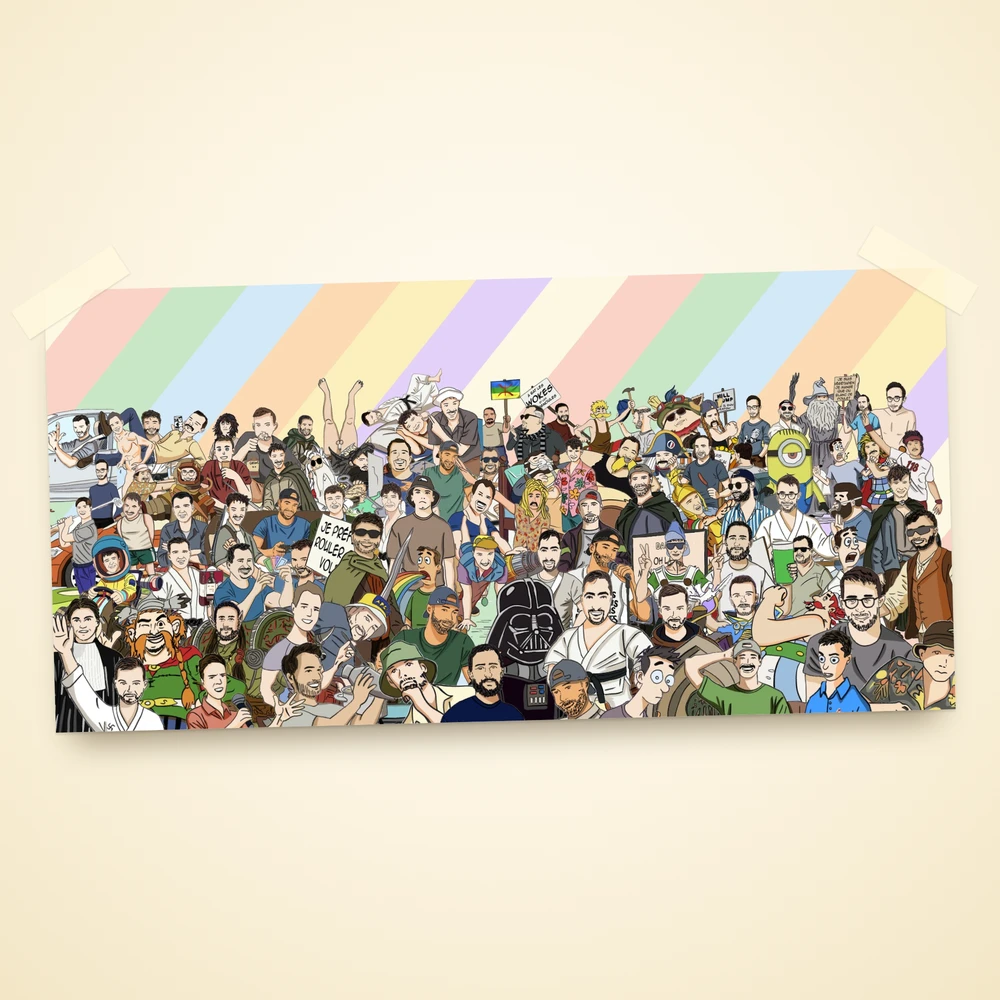
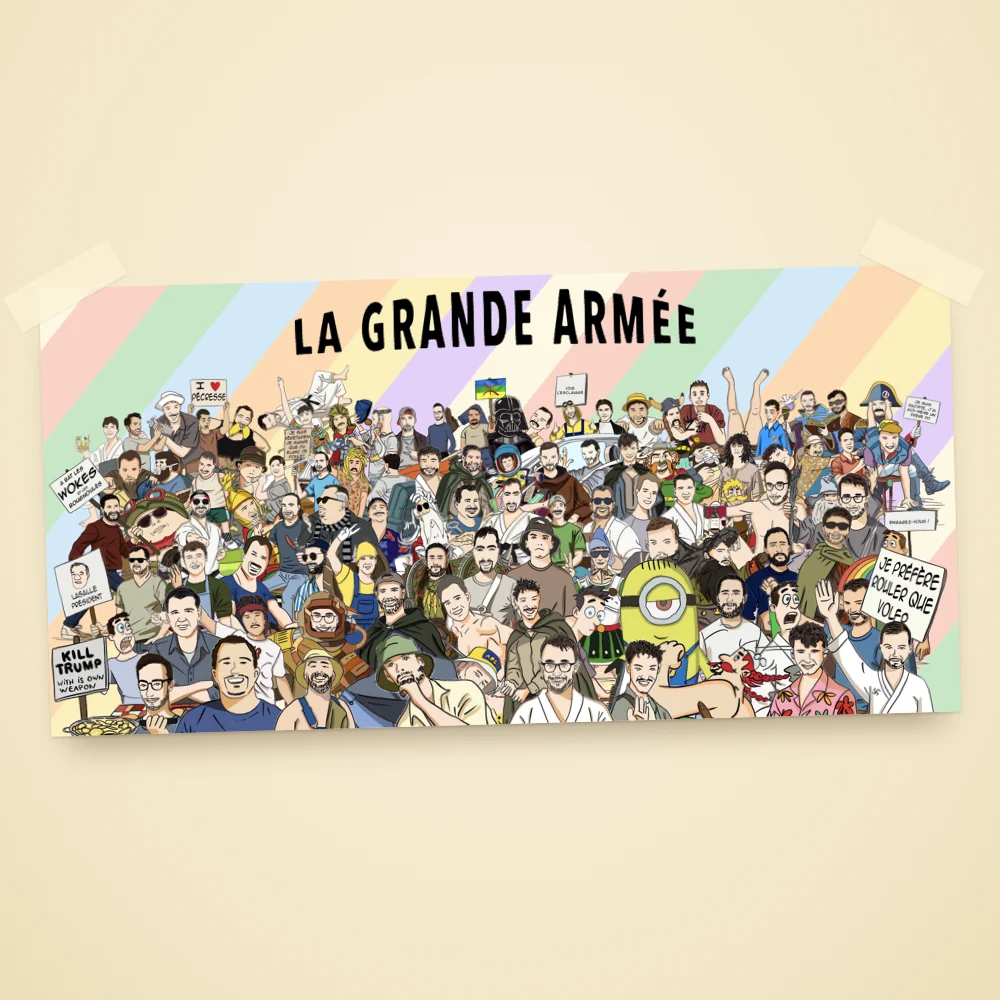
Boutique : affiche personnalisée montrée avec une famille différente à chaque visite (modèles à jour) ; grande affiche « La bande » mise en ligne (sans Momo, foule centrée, titre aux lettres espacées, panneaux lisibles), vignette refaite, plus de « Bientôt »

diff --git a/src/data/products.ts b/src/data/products.ts
@@ -4,6 +4,8 @@ export interface Product {
   name: string;
   price?: string;
   image?: string;
+  /** Plusieurs visuels : un tiré au hasard à chaque visite (le premier sert sans JavaScript). */
+  images?: string[];
   tag?: string;
   /** Page du produit (par défaut : la boutique). */
   href?: string;
@@ -20,7 +22,9 @@ export const teaserProducts: Product[] = [
     name: 'Affiche personnalisée',
     tag: 'Sur mesure',
     color: 'yellow',
-    image: 'images/boutique/affiche-izi-karate.webp',
+    image: 'images/boutique/affiches/izi-karate.webp',
+    // Une affiche de famille différente à chaque visite (sources/boutique/visuels.mjs)
+    images: ['images/boutique/affiches/gaulois.webp', 'images/boutique/affiches/botefragile.webp', 'images/boutique/affiches/branquignol.webp', 'images/boutique/affiches/izi-karate.webp', 'images/boutique/affiches/ludick.webp', 'images/boutique/affiches/bouffetout.webp', 'images/boutique/affiches/gochofacho.webp', 'images/boutique/affiches/mignon.webp', 'images/boutique/affiches/beauf.webp', 'images/boutique/affiches/capdag.webp', 'images/boutique/affiches/troubadour.webp'],
     href: '/creer-mon-affiche',
     description:
       "Tu choisis tes copains, leur tenue, le fond et le format : l'affiche se compose sous tes yeux, puis part à l'impression en haute définition.",
@@ -30,7 +34,6 @@ export const teaserProducts: Product[] = [
   {
     slug: 'affiche-bande',
     name: 'Affiche « La bande »',
-    tag: 'Bientôt',
     color: 'green',
     image: 'images/boutique/affiche-la-bande-vignette.webp',
     href: '/boutique/affiche-la-bande',

diff --git a/sources/boutique/affiche-famille.html b/sources/boutique/affiche-famille.html
@@ -1,0 +1,22 @@
+<!doctype html>
+<!-- Visuels boutique « Affiche personnalisée » (public/images/boutique/affiches/<famille>.webp, 1000×1000) :
+     l'affiche toute faite d'une famille (sources/affiches/familles/<famille>.jpg) scotchée au mur.
+     Ouvrir avec ?f=<famille> ; rendu : capture 1000×1000 (sources/boutique/visuels.mjs). -->
+<html><head><meta charset="utf-8"><style>
+html,body{margin:0;width:1000px;height:1000px;overflow:hidden}
+body{background:radial-gradient(ellipse at 50% 40%,#fbf3e0 0%,#f3e6c8 75%,#ecdcba 100%);display:grid;place-items:center}
+.poster{position:relative;width:870px;transform:rotate(-1.4deg);box-shadow:0 2px 3px rgb(0 0 0/.12),0 26px 40px -18px rgb(70 45 10/.45)}
+.poster.large{width:910px;transform:rotate(-1.6deg)}
+.poster img{display:block;width:100%}
+.tape{position:absolute;top:-22px;width:120px;height:40px;background:rgb(250 243 214/.78);box-shadow:0 1px 2px rgb(0 0 0/.08)}
+.tape.l{left:-34px;transform:rotate(-28deg)}
+.tape.r{right:-34px;transform:rotate(28deg)}
+</style></head><body>
+<div class="poster"><img id="a"><span class="tape l"></span><span class="tape r"></span></div>
+<script>
+const q = new URLSearchParams(location.search);
+const img = document.getElementById('a');
+if (q.get('src')) { img.src = q.get('src'); document.querySelector('.poster').classList.add('large'); }
+else img.src = '../affiches/familles/' + q.get('f') + '.jpg';
+</script>
+</body></html>

diff --git a/sources/affiches/banniere-rendu.py b/sources/affiches/banniere-rendu.py
@@ -1,0 +1,87 @@
+# Redessine la grande affiche « foule » sans refaire l'optimisation de banniere.py :
+#   - à partir du placement (.json écrit par banniere.py : [clé, échelle, x, y] par tenue) ;
+#   - ou à partir d'une affiche déjà faite (.jpg) : seule la bande du titre (sans personnage) est refaite.
+#   python3 sources/affiches/banniere-rendu.py sources/affiches/donnees placement.json|affiche.jpg sortie.jpg [écart]
+# Titre : le logo du site, lettres espacées (écart en fraction de la largeur moyenne d'une lettre).
+import json, math, sys
+import numpy as np
+from PIL import Image, ImageDraw
+
+S, placement, out = sys.argv[1:4]
+ECART = float(sys.argv[4]) if len(sys.argv) > 4 else 0.35
+W = 6000; TITLE = 550; H = 2400 + TITLE
+POSTERS = {"aubin/joystick", "hugo/joystick"}
+PIEDS = {"dim/branquignol"}
+
+chemins = {}
+for l in json.load(open(f"{S}/looks.json")):
+    key = l["image"].split("/")[2] + "/" + l["image"].split("/")[-1].replace("-blanc.png", "")
+    chemins[key] = f"{S}/posters/{key.replace('/', '-')}.png" if key in POSTERS else (
+        "public/" + l["cutout"].replace("-cutout", "-plein") if l["cutout"] else f"{S}/rene-branquignol-plein.png")
+
+# Fond : bandes pastel (comme banniere.py)
+cols = ["#c9e6c7", "#fbd2c6", "#fdf8e3", "#e3d1f9", "#fcefbe", "#fcdab4", "#d4e9f8"]
+bg = Image.new("RGB", (W, H)); d = ImageDraw.Draw(bg)
+a = math.radians(-50); dx, dy = math.sin(a), -math.cos(a); L = abs(W * math.sin(a)) + abs(H * math.cos(a)); band = 0.06 * L
+for k in range(-int(L / band) - 2, int(L / band) + 3):
+    t0 = -L / 2 + k * band; t1 = t0 + band
+    d.polygon([(W / 2 + dx * t - dy * e, H / 2 + dy * t + dx * e) for t, e in ((t0, -L), (t0, L), (t1, L), (t1, -L))], fill=cols[k % 7])
+canvas = bg.convert("RGBA")
+
+if placement.endswith(".json"):
+    rangs = json.load(open(placement))
+    # ordre de dessin : les « pieds » tout au fond, puis les emplacements dans l'ordre
+    for key, s, x, y in sorted(rangs, key=lambda r: r[0] not in PIEDS):
+        im = Image.open(chemins[key]).convert("RGBA").resize((int(708 * s), int(1068 * s)), Image.LANCZOS)
+        canvas.paste(im, (x, y), im)
+else:
+    # affiche existante : on garde tout sous la bande du titre (aucun personnage ne monte au-dessus de BANDE)
+    BANDE = 520
+    ancienne = Image.open(placement).convert("RGBA")
+    canvas.paste(ancienne.crop((0, BANDE, W, H)), (0, BANDE))
+
+
+def titre_espace(t, ecart):
+    """Logo découpé en lettres (colonnes vides entre elles) puis reposé avec plus d'espace."""
+    a = np.asarray(t.getchannel("A")) > 20
+    plein = a.any(0)
+    lettres, x = [], 0
+    while x < len(plein):
+        if plein[x]:
+            x0 = x
+            while x < len(plein) and plein[x]:
+                x += 1
+            lettres.append((x0, x))
+        x += 1
+    larg = np.median([b - a_ for a_, b in lettres])
+    # lettres collées dans le logo (« DE ») : coupées à la colonne la moins remplie du milieu
+    cols = a.sum(0)
+    coupees = []
+    for x0, x1 in lettres:
+        if x1 - x0 > 1.5 * larg:
+            m0, m1 = x0 + int((x1 - x0) * 0.3), x0 + int((x1 - x0) * 0.7)
+            c = m0 + int(np.argmin(cols[m0:m1]))
+            coupees += [(x0, c), (c, x1)]
+        else:
+            coupees.append((x0, x1))
+    lettres = coupees
+    larg = np.median([b - a_ for a_, b in lettres])
+    # espaces entre mots : les deux plus grands écarts (« LA | GRANDE | ARMÉE »)
+    trous = [lettres[i + 1][0] - lettres[i][1] for i in range(len(lettres) - 1)]
+    mots = set(np.argsort(trous)[-2:])
+    pas = [larg * ecart * (2.5 if i in mots else 1) + (g if i in mots else max(g, 0)) for i, g in enumerate(trous)]
+    total = sum(b - a_ for a_, b in lettres) + sum(pas)
+    res = Image.new("RGBA", (int(total) + 2, t.height), (0, 0, 0, 0))
+    cx = 0
+    for i, (x0, x1) in enumerate(lettres):
+        res.alpha_composite(t.crop((x0, 0, x1, t.height)), (int(cx), 0))
+        cx += (x1 - x0) + (pas[i] if i < len(pas) else 0)
+    return res
+
+
+t = titre_espace(Image.open(f"{S}/titre-la-grande-armee.png").convert("RGBA"), ECART)
+tw = int(W * 0.44)
+t = t.resize((tw, int(t.height * tw / t.width)), Image.LANCZOS)
+canvas.alpha_composite(t, ((W - tw) // 2, int(TITLE * 0.16)))
+canvas.convert("RGB").save(out, quality=92)
+print(out, canvas.size)

diff --git a/sources/affiches/banniere.py b/sources/affiches/banniere.py
@@ -5,7 +5,7 @@ import json, random, sys, math
 from PIL import Image, ImageDraw
 S=sys.argv[1]; out=sys.argv[2]; seed=int(sys.argv[3]); iters=int(sys.argv[4])
 W=6000; TITLE=550; H=2400+TITLE; K=8
-rows_def=[(430,470,23),(720,560,20),(1030,660,17),(1380,780,14),(1780,920,12),(2200,1080,10)]
+rows_def=[(430,470,24),(720,560,21),(1030,660,18),(1380,780,14),(1780,920,12),(2200,1080,10)]  # 99 places (104 tenues sans les 5 de Momo)
 looks=json.load(open(f"{S}/looks.json")); faces=json.load(open(f"{S}/faces.json"))
 POSTERS={"aubin/joystick":(48.8,42.4,9.1),"hugo/joystick":(49.7,38.8,14)}
 for i,l in enumerate(looks):
@@ -19,6 +19,14 @@ for i,l in enumerate(looks):
     l["im"]=Image.open(l["plein"]).convert("RGBA")
     l["lo"]=l["im"].resize((708,1068)).getchannel("A").point(lambda v:255 if v>100 else 0)   # tenues HD : cadre ×2
     fx,fy,fw=faces[str(i)]; l["face"]=(fx/100*708, fy/100*1068, max(fw,7)/100*708*0.55)
+# Momo ne fait pas partie de la Grande Armée « de base » : pas sur la grande affiche
+looks=[l for l in looks if l["slug"]!="momo"]
+# Pancartes Gaucho Facho (fractions de la carte x0, y0, x1, y1) : elles doivent rester lisibles dans la foule
+PANNEAUX={"aubin/gochofacho":(0.6,0.24,0.84,0.44),"coco/gochofacho":(0.18,0.2,0.5,0.38),"donne/gochofacho":(0.52,0.3,0.78,0.42),
+          "guigui/gochofacho":(0.16,0.18,0.43,0.4),"laurent/gochofacho":(0.2,0.2,0.37,0.33),"petit/gochofacho":(0.19,0.18,0.39,0.33),
+          "saby/gochofacho":(0.35,0.2,0.52,0.34),"turquet/gochofacho":(0.39,0.18,0.64,0.29),"szabo/gochofacho":(0.66,0.58,0.97,0.78),
+          "nael/gochofacho":(0.44,0.44,0.65,0.53)}
+for l in looks: l["bb"]=l["lo"].getbbox()
 # Tête en bas : seuls ses pieds dépassent de la foule, le reste du corps (visage compris) caché derrière
 PIEDS={"dim/branquignol"}
 for l in looks:
@@ -30,7 +38,7 @@ rnd=random.Random(seed)
 # Emplacements : (rangée, x du visage, y du visage, taille du buste) ; ordre de dessin du fond vers l'avant
 slots=[]
 for ri,(y,b,n) in enumerate(rows_def):
-    m=0.035*W; step=(W-2*m)/(n-0.5); off=m+(0.5*step if ri%2 else 0)
+    m=0.07*W; step=(W-2*m)/(n-0.5); off=m+(0.5*step if ri%2 else 0)
     row=[]
     for i in range(n):
         row.append(dict(r=ri,col=i,x=min(W-m,off+i*step+rnd.uniform(-0.1,0.1)*step),y=TITLE+y+rnd.uniform(-0.06,0.06)*b,b=b*rnd.uniform(0.92,1.08)))
@@ -83,6 +91,19 @@ def evaluate(assign):
                     tot+=1
                     if 0<=xx<W//K and 0<=yy<H//K and lp[xx,yy]==k: v+=1
         f=v/max(tot,1); vis.append(f); pen+=max(0,0.9-f)**1.5*10
+    # personne ne déborde sur les côtés de l'affiche (pieds, bras coupés)
+    for (s_,x,y),l in zip(G,assign):
+        x0,_,x1,_=l["bb"]; pen+=(max(0,-(x+x0*s_))+max(0,x+x1*s_-W))/30
+    # pancartes Gaucho Facho visibles
+    for k,(sl,l) in enumerate(zip(slots,assign),1):
+        if l["key"] not in PANNEAUX: continue
+        s_,x,y=G[k-1]; a0,b0,a1,b1=PANNEAUX[l["key"]]; lo=l["lo"]; tot=v=0
+        for w in range(int(b0*1068),int(b1*1068),8):
+            for u in range(int(a0*708),int(a1*708),8):
+                if not lo.getpixel((u,w)): continue
+                xx,yy=int((x+u*s_)/K),int((y+w*s_)/K); tot+=1
+                if 0<=xx<W//K and 0<=yy<H//K and lp[xx,yy]==k: v+=1
+        pen+=max(0,0.85-v/max(tot,1))*12
     # voisins : même copain ou même famille côte à côte
     for a in range(len(slots)):
         for b in range(a+1,len(slots)):
@@ -117,6 +138,12 @@ canvas=bg.convert("RGBA")
 for k in dessin(assign):
     (s,x,y),l=G[k-1],assign[k-1]
     im=l["im"].resize((int(708*s),int(1068*s)),Image.LANCZOS); canvas.paste(im,(x,y),im)
+# Titre « La Grande Armée » (logo du site) en haut, dans les bandes
+import os
+titre=os.path.join(S,"titre-la-grande-armee.png")
+if os.path.exists(titre):
+    t=Image.open(titre).convert("RGBA"); tw=int(W*0.3); t=t.resize((tw,int(t.height*tw/t.width)),Image.LANCZOS)
+    canvas.alpha_composite(t,((W-tw)//2,int(TITLE*0.18)))
 canvas.convert("RGB").save(out,quality=92)
 dbg=canvas.copy(); dd=ImageDraw.Draw(dbg)
 for (s,x,y),l,v in zip(G,assign,vis):
